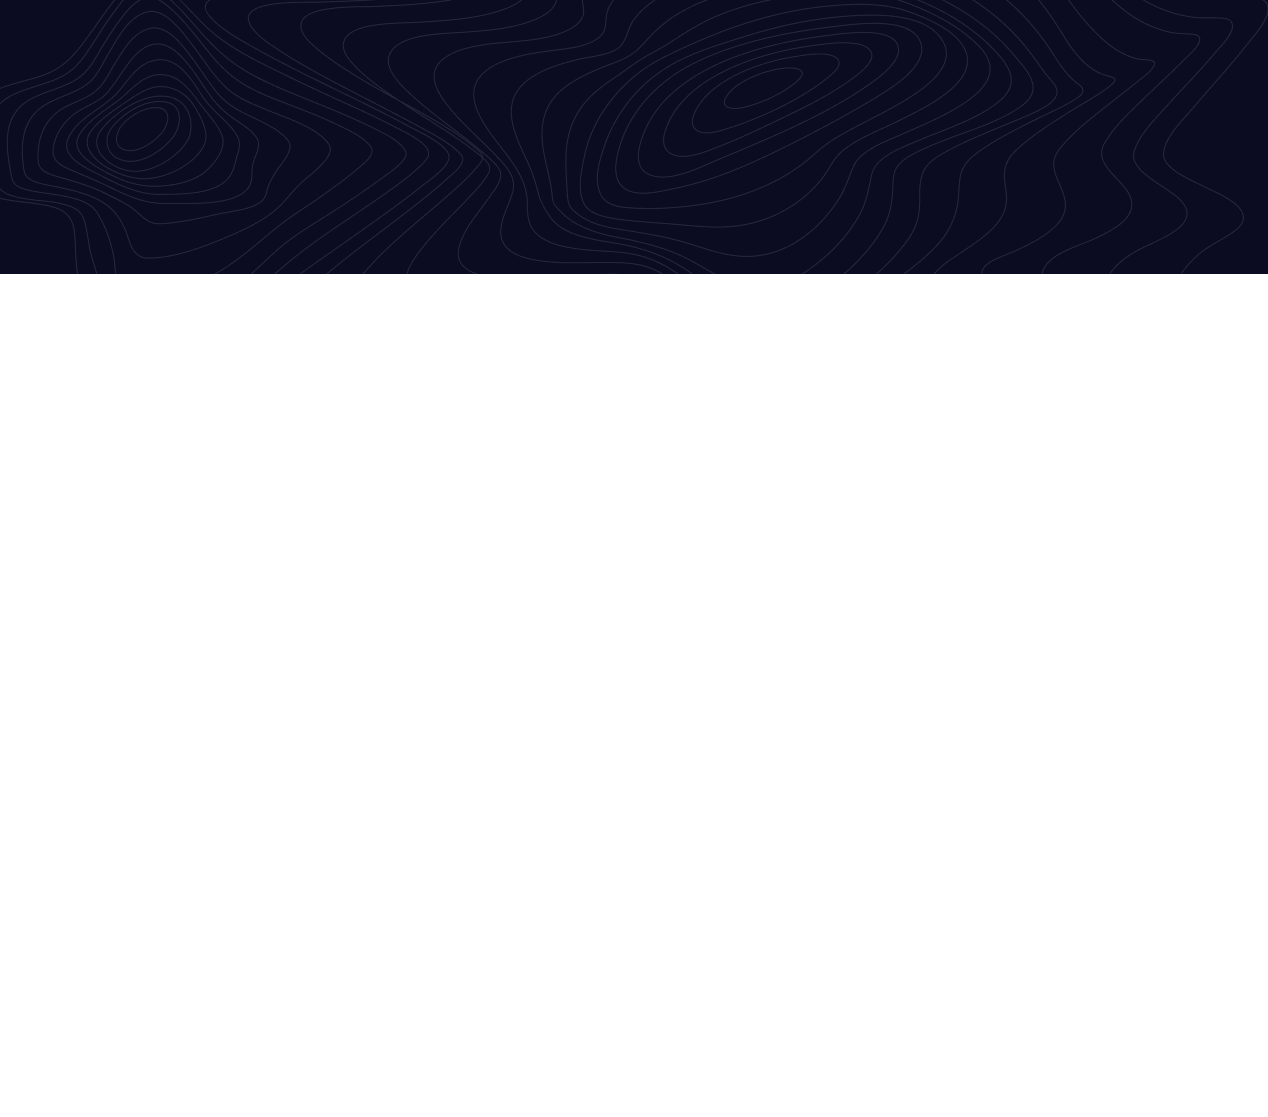
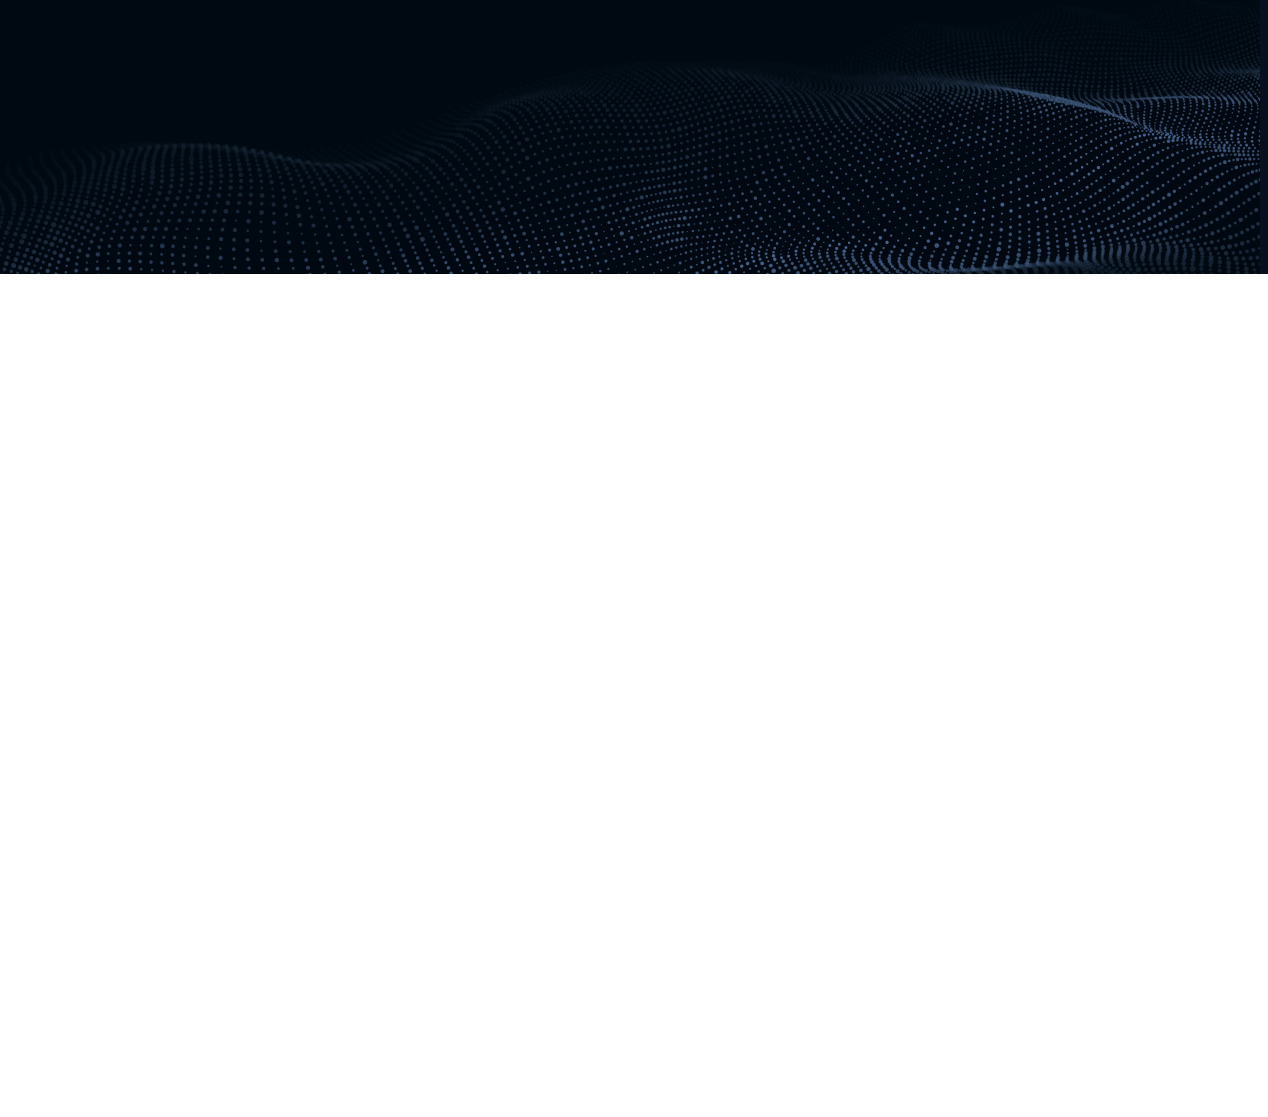
v1.0.6 replace images and remove contract post type

Changed region(s): [[0.0, 0.0, 1.0, 0.2435], [0.4921, 0.0, 0.7689, 0.0609], [0.2768, 0.0, 0.3076, 0.0304]]

diff --git a/includes/post-type.php b/includes/post-type.php
@@ -33,39 +33,39 @@ function hr_platform_register_post_type() {
         'rewrite'            	=> false,
     );
 
-    $labels_contracts = array(
-        'name'               => 'HR Contracts',
-        'singular_name'      => 'HR Contract',
-        'menu_name'          => 'HR Contracts',
-        'name_admin_bar'     => 'HR Contract',
-        'add_new'            => 'Add New',
-        'add_new_item'       => 'Add New HR Contract',
-        'new_item'           => 'New HR Contract',
-        'edit_item'          => 'Edit HR Contract',
-        'view_item'          => 'View HR Contract',
-        'all_items'          => 'All HR Contracts',
-        'search_items'       => 'Search HR Contracts',
-        'parent_item_colon'  => 'Parent HR Contracts:',
-        'not_found'          => 'No HR Contracts found.',
-        'not_found_in_trash' => 'No HR Contracts found in Trash.',
-    );
+    // $labels_contracts = array(
+    //     'name'               => 'HR Contracts',
+    //     'singular_name'      => 'HR Contract',
+    //     'menu_name'          => 'HR Contracts',
+    //     'name_admin_bar'     => 'HR Contract',
+    //     'add_new'            => 'Add New',
+    //     'add_new_item'       => 'Add New HR Contract',
+    //     'new_item'           => 'New HR Contract',
+    //     'edit_item'          => 'Edit HR Contract',
+    //     'view_item'          => 'View HR Contract',
+    //     'all_items'          => 'All HR Contracts',
+    //     'search_items'       => 'Search HR Contracts',
+    //     'parent_item_colon'  => 'Parent HR Contracts:',
+    //     'not_found'          => 'No HR Contracts found.',
+    //     'not_found_in_trash' => 'No HR Contracts found in Trash.',
+    // );
 
-    $args_contracts = array(
-        'labels' 				=> $labels_contracts,
-        'public' 				=> true,
-        'publicly_queryable' 	=> false,
-        'has_archive' 			=> false,
-        'exclude_from_search' 	=> true,
-        'show_in_nav_menus'   	=> false,
-        'show_in_menu' 			=> true,
-        'supports' 				=> array('title'),
-        'menu_position' 		=> 20,
-        'menu_icon' 			=> 'dashicons-media-document',
-        'capability_type'		=> 'post',
-        'rewrite'            	=> false,
-    );
+    // $args_contracts = array(
+    //     'labels' 				=> $labels_contracts,
+    //     'public' 				=> true,
+    //     'publicly_queryable' 	=> false,
+    //     'has_archive' 			=> false,
+    //     'exclude_from_search' 	=> true,
+    //     'show_in_nav_menus'   	=> false,
+    //     'show_in_menu' 			=> true,
+    //     'supports' 				=> array('title'),
+    //     'menu_position' 		=> 20,
+    //     'menu_icon' 			=> 'dashicons-media-document',
+    //     'capability_type'		=> 'post',
+    //     'rewrite'            	=> false,
+    // );
 
     register_post_type('hr-offers', $args_offers);
-    register_post_type('hr-contracts', $args_contracts);
+    // register_post_type('hr-contracts', $args_contracts);
 }
 add_action('init', 'hr_platform_register_post_type');

diff --git a/hr-platform.php b/hr-platform.php
@@ -2,7 +2,7 @@
 /*
 Plugin Name: HR Platform
 Description: Platform for recruiters and HR
-Version: 1.0.5
+Version: 1.0.6
 Author: Shutko Dmytro
 Author URI: http://procoders.tech
 
